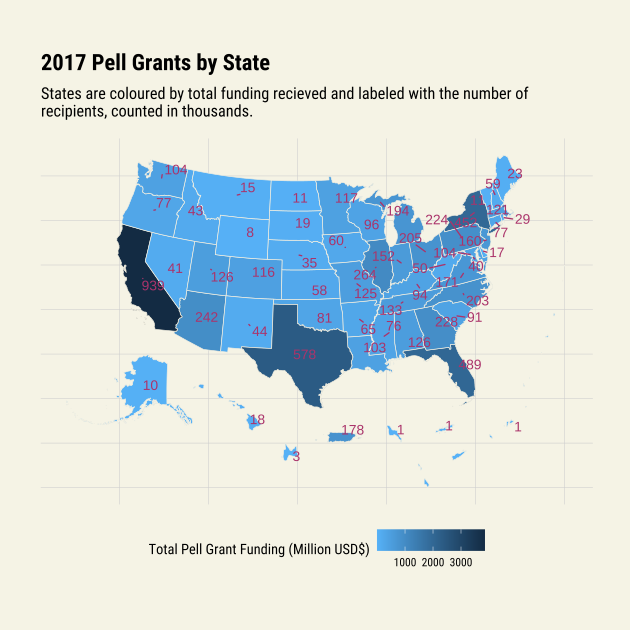
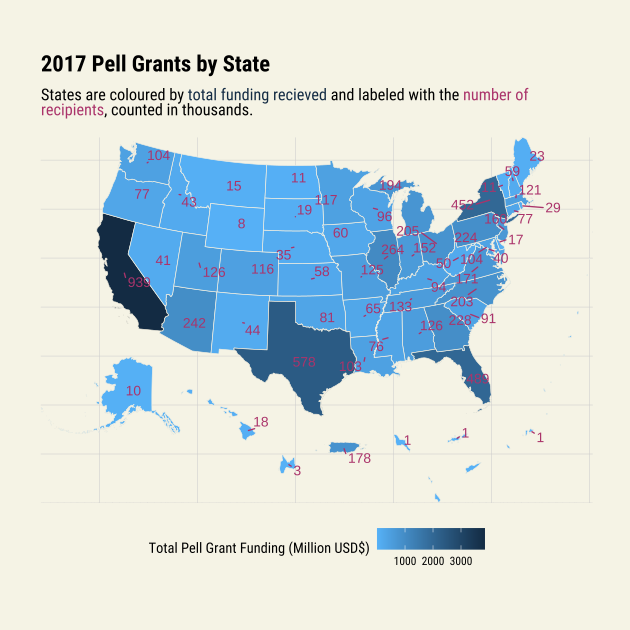
Update Plot

diff --git a/docs/2022-08-30.html b/docs/2022-08-30.html
@@ -238,7 +238,8 @@ code span.wa { color: #60a0b0; font-weight: bold; font-style: italic; } /* Warni
 <span id="cb1-4"><a href="#cb1-4" aria-hidden="true" tabindex="-1"></a><span class="fu">library</span>(showtext)</span>
 <span id="cb1-5"><a href="#cb1-5" aria-hidden="true" tabindex="-1"></a><span class="fu">library</span>(urbnmapr)</span>
 <span id="cb1-6"><a href="#cb1-6" aria-hidden="true" tabindex="-1"></a><span class="fu">library</span>(rsvg)</span>
-<span id="cb1-7"><a href="#cb1-7" aria-hidden="true" tabindex="-1"></a><span class="fu">library</span>(ggrepel)</span></code><button title="Copy to Clipboard" class="code-copy-button"><i class="bi"></i></button></pre></div>
+<span id="cb1-7"><a href="#cb1-7" aria-hidden="true" tabindex="-1"></a><span class="fu">library</span>(ggrepel)</span>
+<span id="cb1-8"><a href="#cb1-8" aria-hidden="true" tabindex="-1"></a><span class="fu">library</span>(ggtext)</span></code><button title="Copy to Clipboard" class="code-copy-button"><i class="bi"></i></button></pre></div>
 </div>
 <div class="cell">
 <div class="sourceCode cell-code" id="cb2"><pre class="sourceCode r code-with-copy"><code class="sourceCode r"><span id="cb2-1"><a href="#cb2-1" aria-hidden="true" tabindex="-1"></a><span class="fu">font_add_google</span>(<span class="st">"Roboto Condensed"</span>)</span>
@@ -302,17 +303,19 @@ old-style crs object detected; please recreate object with a recent sf::st_crs()
 <span id="cb9-21"><a href="#cb9-21" aria-hidden="true" tabindex="-1"></a>          <span class="at">axis.title.y =</span> <span class="fu">element_blank</span>(),</span>
 <span id="cb9-22"><a href="#cb9-22" aria-hidden="true" tabindex="-1"></a>          <span class="at">axis.text.y =</span> <span class="fu">element_blank</span>(),</span>
 <span id="cb9-23"><a href="#cb9-23" aria-hidden="true" tabindex="-1"></a>          <span class="at">axis.ticks.y =</span> <span class="fu">element_blank</span>(),</span>
-<span id="cb9-24"><a href="#cb9-24" aria-hidden="true" tabindex="-1"></a>          <span class="at">axis.line.x =</span> <span class="fu">element_blank</span>()) <span class="sc">+</span></span>
-<span id="cb9-25"><a href="#cb9-25" aria-hidden="true" tabindex="-1"></a>    <span class="fu">scale_fill_continuous</span>(<span class="at">high =</span> <span class="st">"#132B43"</span>, </span>
-<span id="cb9-26"><a href="#cb9-26" aria-hidden="true" tabindex="-1"></a>                          <span class="at">low =</span> <span class="st">"#56B1F7"</span>, </span>
-<span id="cb9-27"><a href="#cb9-27" aria-hidden="true" tabindex="-1"></a>                          <span class="at">name =</span> <span class="st">"Total Pell Grant Funding (Million USD$)"</span>)  <span class="sc">+</span></span>
-<span id="cb9-28"><a href="#cb9-28" aria-hidden="true" tabindex="-1"></a>    <span class="fu">labs</span>(<span class="at">title =</span> <span class="st">"2017 Pell Grants by State"</span>,</span>
-<span id="cb9-29"><a href="#cb9-29" aria-hidden="true" tabindex="-1"></a>         <span class="at">subtitle =</span> <span class="st">"States are coloured by total funding recieved and labeled with the number of </span></span>
-<span id="cb9-30"><a href="#cb9-30" aria-hidden="true" tabindex="-1"></a><span class="st">recipients, counted in thousands."</span>)</span>
-<span id="cb9-31"><a href="#cb9-31" aria-hidden="true" tabindex="-1"></a></span>
-<span id="cb9-32"><a href="#cb9-32" aria-hidden="true" tabindex="-1"></a>tmp <span class="ot">&lt;-</span> <span class="fu">tempfile</span>()</span>
-<span id="cb9-33"><a href="#cb9-33" aria-hidden="true" tabindex="-1"></a><span class="fu">ggsave</span>(tmp, pellPlot, <span class="at">device =</span> <span class="st">"svg"</span>, <span class="at">width =</span> <span class="dv">7</span>, <span class="at">height =</span> <span class="dv">7</span>)</span>
-<span id="cb9-34"><a href="#cb9-34" aria-hidden="true" tabindex="-1"></a><span class="fu">rsvg_png</span>(tmp, <span class="st">"Out/2022-08-30.png"</span>)</span></code><button title="Copy to Clipboard" class="code-copy-button"><i class="bi"></i></button></pre></div>
+<span id="cb9-24"><a href="#cb9-24" aria-hidden="true" tabindex="-1"></a>          <span class="at">axis.line.x =</span> <span class="fu">element_blank</span>(),</span>
+<span id="cb9-25"><a href="#cb9-25" aria-hidden="true" tabindex="-1"></a>          <span class="at">plot.subtitle =</span> <span class="fu">element_markdown</span>()) <span class="sc">+</span></span>
+<span id="cb9-26"><a href="#cb9-26" aria-hidden="true" tabindex="-1"></a>    <span class="fu">scale_x_continuous</span>(<span class="at">expand =</span> <span class="fu">c</span>(<span class="dv">0</span>, <span class="dv">0</span>)) <span class="sc">+</span></span>
+<span id="cb9-27"><a href="#cb9-27" aria-hidden="true" tabindex="-1"></a>    <span class="fu">scale_y_continuous</span>(<span class="at">expand =</span> <span class="fu">c</span>(<span class="dv">0</span>, <span class="dv">0</span>)) <span class="sc">+</span></span>
+<span id="cb9-28"><a href="#cb9-28" aria-hidden="true" tabindex="-1"></a>    <span class="fu">scale_fill_continuous</span>(<span class="at">high =</span> <span class="st">"#132B43"</span>, </span>
+<span id="cb9-29"><a href="#cb9-29" aria-hidden="true" tabindex="-1"></a>                          <span class="at">low =</span> <span class="st">"#56B1F7"</span>, </span>
+<span id="cb9-30"><a href="#cb9-30" aria-hidden="true" tabindex="-1"></a>                          <span class="at">name =</span> <span class="st">"Total Pell Grant Funding (Million USD$)"</span>)  <span class="sc">+</span></span>
+<span id="cb9-31"><a href="#cb9-31" aria-hidden="true" tabindex="-1"></a>    <span class="fu">labs</span>(<span class="at">title =</span> <span class="st">"2017 Pell Grants by State"</span>,</span>
+<span id="cb9-32"><a href="#cb9-32" aria-hidden="true" tabindex="-1"></a>         <span class="at">subtitle =</span> <span class="st">"States are coloured by &lt;span style='color:#132B43;'&gt;total funding recieved&lt;/span&gt; and labeled with the &lt;span style='color:#AA336A;'&gt;number of &lt;br&gt;recipients&lt;/span&gt;, counted in thousands."</span>)</span>
+<span id="cb9-33"><a href="#cb9-33" aria-hidden="true" tabindex="-1"></a></span>
+<span id="cb9-34"><a href="#cb9-34" aria-hidden="true" tabindex="-1"></a>tmp <span class="ot">&lt;-</span> <span class="fu">tempfile</span>()</span>
+<span id="cb9-35"><a href="#cb9-35" aria-hidden="true" tabindex="-1"></a><span class="fu">ggsave</span>(tmp, pellPlot, <span class="at">device =</span> <span class="st">"svg"</span>, <span class="at">width =</span> <span class="dv">7</span>, <span class="at">height =</span> <span class="dv">7</span>)</span>
+<span id="cb9-36"><a href="#cb9-36" aria-hidden="true" tabindex="-1"></a><span class="fu">rsvg_png</span>(tmp, <span class="st">"Out/2022-08-30.png"</span>)</span></code><button title="Copy to Clipboard" class="code-copy-button"><i class="bi"></i></button></pre></div>
 </div>
 <div class="quarto-figure quarto-figure-center">
 <figure class="figure">
@@ -341,12 +344,12 @@ attached base packages:
 [1] stats     graphics  grDevices utils     datasets  methods   base     
 
 other attached packages:
- [1] ggrepel_0.9.1       rsvg_2.3.1          urbnmapr_0.0.0.9002
- [4] showtext_0.9-5      showtextdb_3.0      sysfonts_0.8.8     
- [7] hrbrthemes_0.8.0    forcats_0.5.2       stringr_1.4.1      
-[10] dplyr_1.0.9         purrr_0.3.4         readr_2.1.2        
-[13] tidyr_1.2.0         tibble_3.1.7        tidyverse_1.3.2    
-[16] ggplot2_3.3.6      
+ [1] ggtext_0.1.1        ggrepel_0.9.1       rsvg_2.3.1         
+ [4] urbnmapr_0.0.0.9002 showtext_0.9-5      showtextdb_3.0     
+ [7] sysfonts_0.8.8      hrbrthemes_0.8.0    forcats_0.5.2      
+[10] stringr_1.4.1       dplyr_1.0.9         purrr_0.3.4        
+[13] readr_2.1.2         tidyr_1.2.0         tibble_3.1.7       
+[16] tidyverse_1.3.2     ggplot2_3.3.6      
 
 loaded via a namespace (and not attached):
  [1] fs_1.5.2            sf_1.0-8            usethis_2.1.6      
@@ -368,15 +371,16 @@ loaded via a namespace (and not attached):
 [49] Rcpp_1.0.8.3        munsell_0.5.0       fansi_1.0.3        
 [52] gdtools_0.2.4       lifecycle_1.0.1     stringi_1.7.6      
 [55] yaml_2.3.5          grid_4.2.1          parallel_4.2.1     
-[58] crayon_1.5.1        haven_2.5.1         hms_1.1.2          
-[61] knitr_1.40          pillar_1.8.1        wk_0.6.0           
-[64] reprex_2.0.2        glue_1.6.2          evaluate_0.16      
-[67] modelr_0.1.9        vctrs_0.4.1         tzdb_0.3.0         
-[70] selectr_0.4-2       Rttf2pt1_1.3.10     cellranger_1.1.0   
-[73] gtable_0.3.1        assertthat_0.2.1    xfun_0.31          
-[76] broom_1.0.1         e1071_1.7-11        ragg_1.2.2         
-[79] class_7.3-20        googledrive_2.0.0   gargle_1.2.0       
-[82] units_0.8-0         ellipsis_0.3.2     </code></pre>
+[58] crayon_1.5.1        haven_2.5.1         gridtext_0.1.4     
+[61] hms_1.1.2           knitr_1.40          pillar_1.8.1       
+[64] markdown_1.1        wk_0.6.0            reprex_2.0.2       
+[67] glue_1.6.2          evaluate_0.16       modelr_0.1.9       
+[70] vctrs_0.4.1         tzdb_0.3.0          selectr_0.4-2      
+[73] Rttf2pt1_1.3.10     cellranger_1.1.0    gtable_0.3.1       
+[76] assertthat_0.2.1    xfun_0.31           broom_1.0.1        
+[79] e1071_1.7-11        ragg_1.2.2          class_7.3-20       
+[82] googledrive_2.0.0   gargle_1.2.0        units_0.8-0        
+[85] ellipsis_0.3.2     </code></pre>
 </div>
 </div>
 
